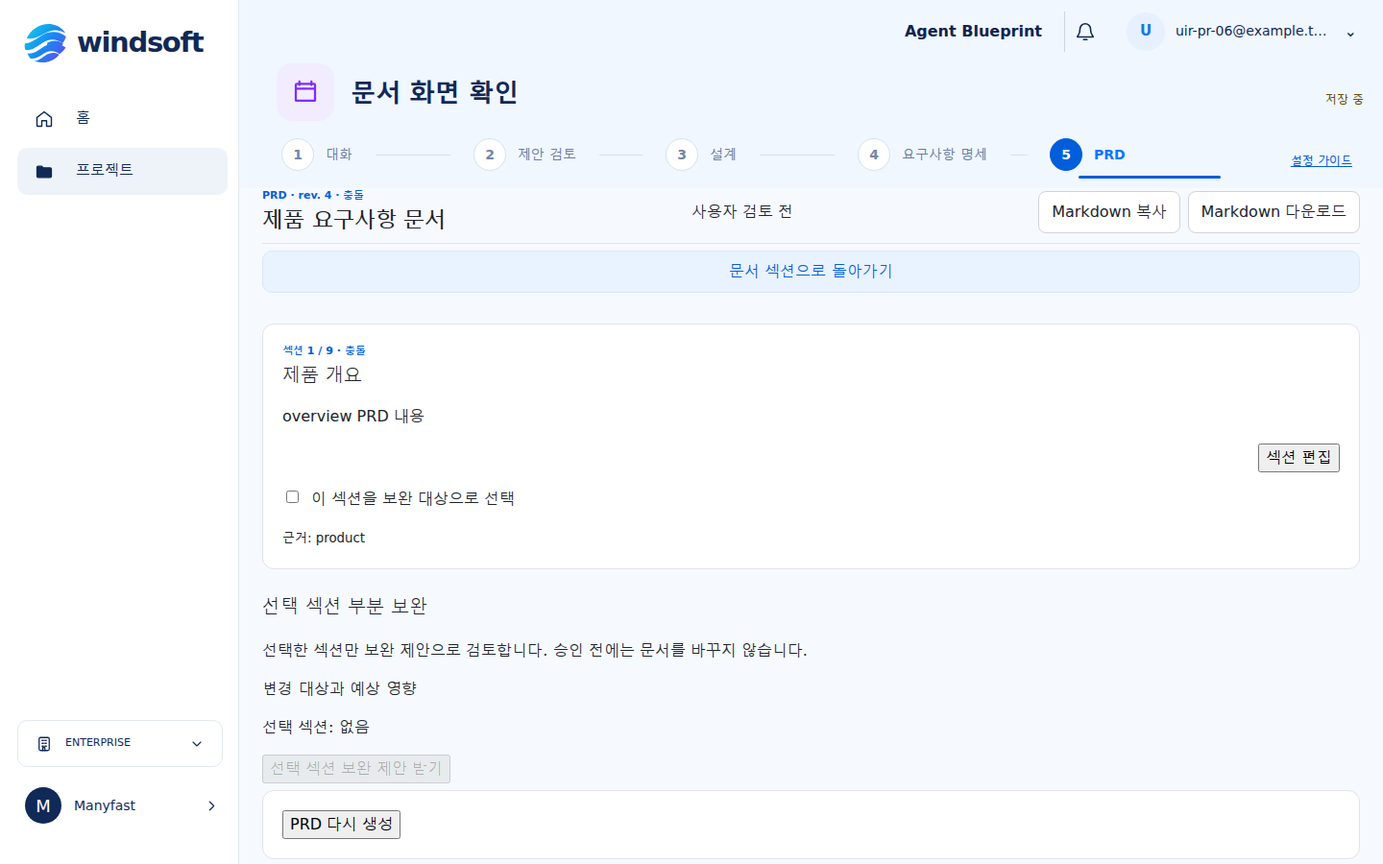
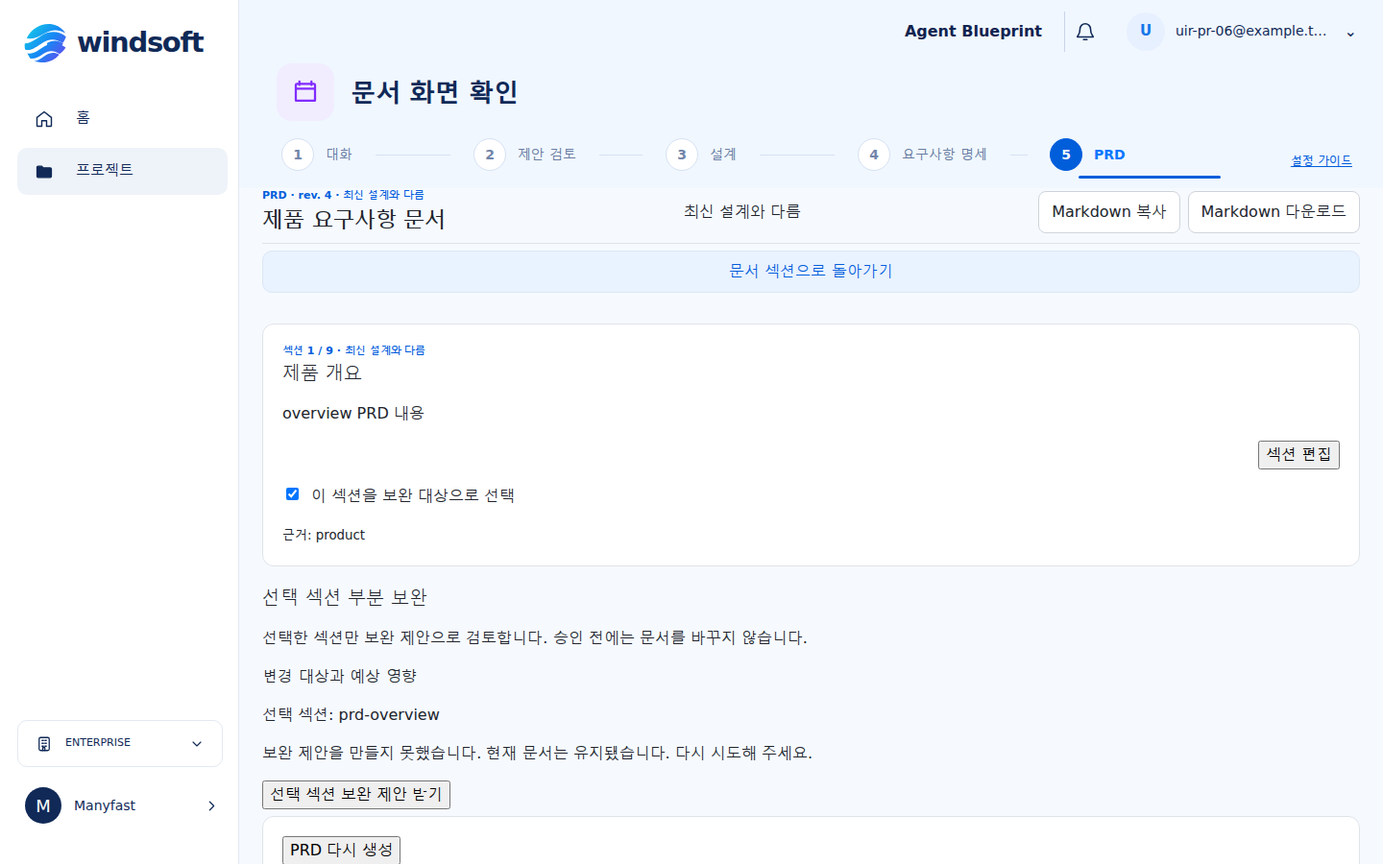
Block conflicted document patch targets

diff --git a/src/components/blueprint/RequirementsDocument.tsx b/src/components/blueprint/RequirementsDocument.tsx
@@ -44,6 +44,9 @@ export function RequirementsDocument({ aggregate, document, sections, generating
   const headerStatus = !document ? '초안' : hasConflict ? '충돌 해결 필요' : isStale ? '최신 설계와 다름' : document.status==='ready' ? '사용자 검토 완료' : document.status==='review_required' ? '사용자 검토 전' : document.status;
   const selected = currentSections.find((section)=>section.key===selectedKey);
   const requirements = (document?.requirements ?? []).filter((item)=>selected?.sourceItemIds.some((id)=>item.sourceItemIds.includes(id)));
+  const canPatchSelectedSection = Boolean(selected && selected.syncStatus !== 'conflict');
+  const patchSectionIds = canPatchSelectedSection && sectionTargetSelected && selected ? [selected.id] : [];
+  const patchRequirementIds = canPatchSelectedSection ? selectedRequirementIds.filter((id)=>requirements.some((item)=>item.id===id)) : [];
   const issueCount = document?.reviewIssues?.length ?? 0;
   const wasOpen = useRef(false);
   useEffect(()=>{ if (selected) selectedHeadingRef.current?.focus(); },[selected?.id]);
@@ -75,7 +78,7 @@ export function RequirementsDocument({ aggregate, document, sections, generating
     </header>
     {generating ? <div className="requirements-generation-status" role="status" aria-live="polite"><strong>Requirements를 만들고 있습니다</strong><ol><li>설계 계획 검증</li><li>요구사항 작성</li><li>품질 검토</li></ol><p>현재 설계와 기존 문서는 생성이 끝날 때까지 유지됩니다.</p></div> : null}
     {error ? <div className="requirements-generation-error" role="alert"><p>{error}</p><button type="button" onClick={onGenerate}>같은 요청 다시 시도</button></div> : null}
-    {!document && !generating ? <div className="requirements-empty-state"><h3>확정된 설계에서 Requirements를 만들 수 있습니다</h3><p>생성된 문서는 자동으로 완료 처리되지 않으며, 근거와 수용 기준을 직접 검토할 수 있습니다.</p><button type="button" className="design-requirements-action is-primary" onClick={onGenerate}>Requirements 생성</button></div> : null}
+    {!document && !generating ? <div className="requirements-empty-state"><h2>확정된 설계에서 Requirements를 만들 수 있습니다</h2><p>생성된 문서는 자동으로 완료 처리되지 않으며, 근거와 수용 기준을 직접 검토할 수 있습니다.</p><button type="button" className="design-requirements-action is-primary" onClick={onGenerate}>Requirements 생성</button></div> : null}
     {document ? <>
       <div className="requirements-document-layout">
         <aside className={`requirements-contents ${contentsOpen ? 'is-open' : ''}`} aria-label="문서 목차">
@@ -85,21 +88,21 @@ export function RequirementsDocument({ aggregate, document, sections, generating
         {contentsOpen ? <button className="requirements-contents-backdrop" aria-label="목차 닫기" onClick={()=>setContentsOpen(false)} /> : null}
         <div className="requirements-content-main">
           <button ref={triggerRef} type="button" className="requirements-contents-trigger" aria-expanded={contentsOpen} onClick={()=>setContentsOpen(true)}>목차 열기</button>
-          {selected ? <article aria-labelledby="requirements-section-title"><button className="document-detail-back" type="button" onClick={()=>{setFocusOverview(true);setSelectedKey('');}}>문서 섹션으로 돌아가기</button><p className="workspace-eyebrow">섹션 {selected.order+1} / {currentSections.length}</p><h3 id="requirements-section-title" ref={selectedHeadingRef} tabIndex={-1}>{selected.title}</h3>{selected.markdown ? <p className="requirements-section-copy">{selected.markdown}</p> : null}{document?<DocumentSectionEditor aggregate={aggregate} document={document} section={selected} onSave={onDirectEdit}/>:null}
-            <label><input type="checkbox" checked={sectionTargetSelected} onChange={(event)=>setSectionTargetSelected(event.target.checked)} /> 이 섹션을 보완 대상으로 선택</label>
-            {requirements.map((requirement:Requirement)=><section className="requirements-item" key={requirement.id}><header><strong>{requirement.id}</strong><span>{requirement.priority}</span></header><h4>{requirement.title}</h4><p>{requirement.description}</p><p className="requirements-item-meta">근거: {requirement.sourceItemIds.join(', ') || '연결된 설계 없음'}</p><label><input type="checkbox" checked={selectedRequirementIds.includes(requirement.id)} onChange={(event)=>setSelectedRequirementIds((ids)=>event.target.checked?[...ids,requirement.id]:ids.filter((id)=>id!==requirement.id))} /> 이 요구사항을 보완 대상으로 선택</label>{requirement.acceptanceCriteria.length ? <div><strong>수용 기준</strong><ul>{requirement.acceptanceCriteria.map((criterion,index)=><li key={`${requirement.id}-${index}`}>{criterion.text} <span>(근거: {criterion.sourceItemIds.join(', ')})</span></li>)}</ul></div> : null}</section>)}
+          {selected ? <article aria-labelledby="requirements-section-title"><button className="document-detail-back" type="button" onClick={()=>{setFocusOverview(true);setSelectedKey('');}}>문서 섹션으로 돌아가기</button><p className="workspace-eyebrow">섹션 {selected.order+1} / {currentSections.length}</p><h2 id="requirements-section-title" ref={selectedHeadingRef} tabIndex={-1}>{selected.title}</h2>{selected.markdown ? <p className="requirements-section-copy">{selected.markdown}</p> : null}{document?<DocumentSectionEditor aggregate={aggregate} document={document} section={selected} onSave={onDirectEdit}/>:null}
+            {selected.syncStatus==='conflict' ? <p role="note">충돌을 해결한 뒤 최신 섹션에서 보완 대상을 선택할 수 있습니다.</p> : <label><input type="checkbox" checked={sectionTargetSelected} onChange={(event)=>setSectionTargetSelected(event.target.checked)} /> 이 섹션을 보완 대상으로 선택</label>}
+            {requirements.map((requirement:Requirement)=><section className="requirements-item" key={requirement.id}><header><strong>{requirement.id}</strong><span>{requirement.priority}</span></header><h3>{requirement.title}</h3><p>{requirement.description}</p><p className="requirements-item-meta">근거: {requirement.sourceItemIds.join(', ') || '연결된 설계 없음'}</p>{selected.syncStatus==='conflict' ? <p role="note">충돌을 해결하기 전에는 이 요구사항을 보완 대상으로 선택할 수 없습니다.</p> : <label><input type="checkbox" checked={selectedRequirementIds.includes(requirement.id)} onChange={(event)=>setSelectedRequirementIds((ids)=>event.target.checked?[...ids,requirement.id]:ids.filter((id)=>id!==requirement.id))} /> 이 요구사항을 보완 대상으로 선택</label>}{requirement.acceptanceCriteria.length ? <div><strong>수용 기준</strong><ul>{requirement.acceptanceCriteria.map((criterion,index)=><li key={`${requirement.id}-${index}`}>{criterion.text} <span>(근거: {criterion.sourceItemIds.join(', ')})</span></li>)}</ul></div> : null}</section>)}
           </article> : document ? <DocumentSectionOverview sections={currentSections} focusHeading={focusOverview} onSelect={(section)=>{setFocusOverview(false);select(section.key);}} /> : null}
-          {onRequestPatch ? <section className="requirements-ready-review" aria-labelledby="requirements-patch-title"><h3 id="requirements-patch-title">선택 항목 부분 보완</h3><p>선택한 문서 내용과 연결 근거만 요청에 포함합니다. 승인 전에는 저장 문서가 바뀌지 않습니다.</p>{selected ? <p>대상: {[...(sectionTargetSelected?[selected.title]:[]),...requirements.filter((item)=>selectedRequirementIds.includes(item.id)).map((item)=>item.id)].join(', ')||'선택 없음'}</p> : null}{impactPreview?<ImpactSummary preview={impactPreview({sectionIds:sectionTargetSelected&&selected?[selected.id]:[],requirementIds:selectedRequirementIds})}/>:null}{patchError?<p role="alert">{patchError}</p>:null}<button type="button" disabled={patching||(!sectionTargetSelected&&!selectedRequirementIds.length)} onClick={()=>onRequestPatch?.({sectionIds:sectionTargetSelected&&selected?[selected.id]:[],requirementIds:selectedRequirementIds})}>{patching?'보완 제안 작성 중…':'선택 항목 보완 제안 받기'}</button></section>:null}
-          {selected?.key==='open_issues' && document.openIssues?.length ? <section aria-labelledby="requirements-open-issues"><h3 id="requirements-open-issues">미뤄 둔 결정</h3><ul>{document.openIssues.map((issue)=><li key={issue.id}><strong>{issue.title}</strong><p>{issue.description}</p><span>설계 항목: {issue.sourceItemIds.join(', ')}</span></li>)}</ul></section> : null}
-          {issueCount ? <section className="requirements-review-issues" aria-labelledby="requirements-review-issues-title"><h3 id="requirements-review-issues-title">검토할 문제 {issueCount}개</h3><ul>{document.reviewIssues?.map((issue,index)=><li key={`${issue.code}-${index}`}><strong>{issue.severity==='error'?'필수 확인':'확인 권장'} · {currentSections.find((section)=>section.key===issue.sectionKey)?.title ?? issue.sectionKey}</strong><p>{issue.description}</p>{issue.relatedItemIds.length ? <span>관련 설계: {issue.relatedItemIds.join(', ')}</span> : null}</li>)}</ul><p>설계 근거만으로 해결하기 어렵다면 관련 결정을 대화에서 다시 확인해 주세요.</p></section> : null}
+          {onRequestPatch ? <section className="requirements-ready-review" aria-labelledby="requirements-patch-title"><h2 id="requirements-patch-title">선택 항목 부분 보완</h2><p>선택한 문서 내용과 연결 근거만 요청에 포함합니다. 승인 전에는 저장 문서가 바뀌지 않습니다.</p>{selected ? <p>대상: {[...(patchSectionIds.length?[selected.title]:[]),...requirements.filter((item)=>patchRequirementIds.includes(item.id)).map((item)=>item.id)].join(', ')||'선택 없음'}</p> : null}{impactPreview?<ImpactSummary preview={impactPreview({sectionIds:patchSectionIds,requirementIds:patchRequirementIds})}/>:null}{patchError?<p role="alert">{patchError}</p>:null}{selected?.syncStatus==='conflict' ? <p role="note">충돌 해결 전에는 해당 섹션을 AI 보완 대상으로 보낼 수 없습니다.</p> : null}<button type="button" disabled={patching||(!patchSectionIds.length&&!patchRequirementIds.length)} onClick={()=>onRequestPatch?.({sectionIds:patchSectionIds,requirementIds:patchRequirementIds})}>{patching?'보완 제안 작성 중…':'선택 항목 보완 제안 받기'}</button></section>:null}
+          {selected?.key==='open_issues' && document.openIssues?.length ? <section aria-labelledby="requirements-open-issues"><h2 id="requirements-open-issues">미뤄 둔 결정</h2><ul>{document.openIssues.map((issue)=><li key={issue.id}><strong>{issue.title}</strong><p>{issue.description}</p><span>설계 항목: {issue.sourceItemIds.join(', ')}</span></li>)}</ul></section> : null}
+          {issueCount ? <section className="requirements-review-issues" aria-labelledby="requirements-review-issues-title"><h2 id="requirements-review-issues-title">검토할 문제 {issueCount}개</h2><ul>{document.reviewIssues?.map((issue,index)=><li key={`${issue.code}-${index}`}><strong>{issue.severity==='error'?'필수 확인':'확인 권장'} · {currentSections.find((section)=>section.key===issue.sectionKey)?.title ?? issue.sectionKey}</strong><p>{issue.description}</p>{issue.relatedItemIds.length ? <span>관련 설계: {issue.relatedItemIds.join(', ')}</span> : null}</li>)}</ul><p>설계 근거만으로 해결하기 어렵다면 관련 결정을 대화에서 다시 확인해 주세요.</p></section> : null}
         </div>
       </div>
       {document.status === 'review_required' ? <section className="requirements-ready-review" aria-labelledby="requirements-ready-title">
-        <h3 id="requirements-ready-title">Requirements 검토 완료</h3>
+        <h2 id="requirements-ready-title">Requirements 검토 완료</h2>
         {readySummary?.eligible ? <><p>P0 요구사항 {readySummary.p0RequirementCount}개 · 수용 기준 {readySummary.acceptanceCriteriaCount}개 · 오픈 이슈 {readySummary.openIssueCount}개 · 설계 revision {readySummary.designRevision}</p><button ref={readyTriggerRef} type="button" className="design-requirements-action is-primary" onClick={() => confirmRef.current?.showModal()}>검토 완료 확인</button></> : <><p>완료 처리 전에 아래 항목을 해결해야 합니다.</p><ul>{readySummary?.blockers.map((blocker) => <li key={blocker}>{blockerMessage(blocker)}</li>)}</ul><button type="button" disabled aria-describedby="requirements-ready-blocked">검토 완료 확인</button><span id="requirements-ready-blocked" className="workspace-sr-only">Requirements에 미해결 검토 조건이 있습니다.</span></>}
         {readyError ? <p role="alert">{readyError}</p> : null}
         <dialog ref={confirmRef} aria-labelledby="requirements-ready-confirm-title" onClose={() => readyTriggerRef.current?.focus()}>
-          <h3 id="requirements-ready-confirm-title">Requirements 검토를 완료할까요?</h3>
+          <h2 id="requirements-ready-confirm-title">Requirements 검토를 완료할까요?</h2>
           <p>P0 요구사항 {readySummary?.p0RequirementCount ?? 0}개, 수용 기준 {readySummary?.acceptanceCriteriaCount ?? 0}개, 오픈 이슈 {readySummary?.openIssueCount ?? 0}개를 설계 revision {readySummary?.designRevision ?? '—'} 기준으로 확정합니다. 이 동작은 PRD 생성을 허용하며 PRD 자체를 승인하지 않습니다.</p>
           <button type="button" onClick={() => confirmRef.current?.close()}>취소</button>
           <button type="button" className="design-requirements-action is-primary" onClick={() => { confirmRef.current?.close(); onMarkReady?.(); }}>Requirements 검토 완료</button>

diff --git a/tests/e2e/uir-pr-06-documents-supported-flows.spec.ts b/tests/e2e/uir-pr-06-documents-supported-flows.spec.ts
@@ -29,18 +29,23 @@ test('Requirements and PRD overview keeps section details and support actions re
     });
     const item = (id:string,type:string,extra:Record<string,unknown>={}) => ({id,projectId,type,title:id,description:`${id} 설명`,status:'confirmed',priority:'must',attributes:{},evidence:[],acceptanceCriteria:[],relatedItemIds:[],createdAt:now,updatedAt:now,...extra});
     const designItems = [item('product','product_definition'),item('problem','problem'),item('goal','goal'),item('user','user_role'),item('scenario','scenario'),item('feature','requirement',{acceptanceCriteria:[{id:'criterion',text:'완료 상태를 보여준다',status:'confirmed',evidence:[]}]}),item('scope','scope'),item('exclusion','out_of_scope'),item('metric','success_metric'),item('risk','risk')];
-    const requirementsSections = requirementKeys.map((key,order) => ({id:`req-${key}`,projectId,documentId:'requirements-doc',key,title:key==='functional'?'핵심 기능 요구사항':key,markdown:`${key} 요구사항 내용`,order,sourceItemIds:key==='functional'?['feature']:[],origin:'generated',syncStatus:'current',updatedAt:now}));
+    const requirementsSections = requirementKeys.map((key,order) => ({id:`req-${key}`,projectId,documentId:'requirements-doc',key,title:key==='functional'?'핵심 기능 요구사항':key,markdown:`${key} 요구사항 내용`,order,sourceItemIds:['functional','open_issues'].includes(key)?['feature']:[],origin:'generated',syncStatus:'current',updatedAt:now}));
     const prdSections = prdKeys.map((key,order) => ({id:`prd-${key}`,projectId,documentId:'prd-doc',key,title:key==='overview'?'제품 개요':key,markdown:`${key} PRD 내용`,order,sourceItemIds:key==='overview'?['product']:[],origin:'generated',syncStatus:key==='open_issues'?'conflict':key==='scope'?'stale':'current',updatedAt:now}));
     const aggregate = {
       project:{id:projectId,ownerKey,schemaVersion:1,title:'문서 화면 확인',status:'active',activeDocumentType:'requirements',activeThreadId:'thread',processState:'document_ready',designRevision:4,readiness:{state:'ready',areas:[],pendingProposalCount:0,conflictCount:0},createdAt:now,updatedAt:now,lastOpenedAt:now},
       thread:{id:'thread',projectId,title:'초기 대화',status:'active',createdAt:now,updatedAt:now},messages:[],answers:[],sources:[],designItems,proposals:[],
-      documents:[{id:'requirements-doc',projectId,type:'requirements',title:'Requirements',status:'ready',designRevision:4,readyDesignRevision:4,readyAt:now,readyConfirmationArtifact:'ready-attestation',version:2,sectionIds:requirementsSections.map(({id})=>id),requirements:[],openIssues:[],reviewIssues:[],createdAt:now,updatedAt:now},{id:'prd-doc',projectId,type:'prd',title:'PRD',status:'review_required',designRevision:4,version:1,sectionIds:prdSections.map(({id})=>id),createdAt:now,updatedAt:now}],
+      documents:[{id:'requirements-doc',projectId,type:'requirements',title:'Requirements',status:'ready',designRevision:4,readyDesignRevision:4,readyAt:now,readyConfirmationArtifact:'ready-attestation',version:2,sectionIds:requirementsSections.map(({id})=>id),requirements:[{id:'REQ-001',category:'functional',title:'사용자가 예약을 진행할 수 있다',description:'예약 절차를 완료할 수 있어야 합니다.',priority:'P0',sourceItemIds:['feature'],acceptanceCriteria:[{text:'완료 상태를 보여준다',sourceItemIds:['feature']}],openIssueIds:[]}],openIssues:[],reviewIssues:[],createdAt:now,updatedAt:now},{id:'prd-doc',projectId,type:'prd',title:'PRD',status:'review_required',designRevision:4,version:1,sectionIds:prdSections.map(({id})=>id),createdAt:now,updatedAt:now}],
       sections:[...requirementsSections,...prdSections],generationJobs:[],requestLedgerEntries:[],contextManifests:[],activityEntries:[],
     };
     const tx=db.transaction(['projects','activities'],'readwrite'); tx.objectStore('projects').put({id:projectId,schemaVersion:1,...aggregate});
     await new Promise<void>((resolve,reject)=>{tx.oncomplete=()=>resolve();tx.onerror=()=>reject(tx.error);}); db.close();
   },{databaseName:databaseNameForOwner(ownerKey),ownerKey,projectId,now,requirementKeys,prdKeys});
   const databaseName=databaseNameForOwner(ownerKey);
+  const patchRequests:any[]=[];
+  await page.route('**/api/blueprint/documents/patch',async(route)=>{
+    patchRequests.push(route.request().postDataJSON());
+    await route.fulfill({status:422,json:{error:'PATCH_TEST_CAPTURE'}});
+  });
 
   const viewport = page.viewportSize()!;
   await page.goto(`/blueprints/${projectId}/requirements`);
@@ -52,6 +57,9 @@ test('Requirements and PRD overview keeps section details and support actions re
     }).toBe(true);
   }
   await expect(page.getByRole('heading',{name:'문서 섹션'})).toBeVisible();
+  await expect(page.locator('.requirements-document h1')).toHaveCount(1);
+  await expect(page.getByRole('heading',{name:'문서 섹션',level:2})).toBeVisible();
+  await expect(page.getByRole('heading',{name:'핵심 기능 요구사항',level:3})).toBeVisible();
   await expect(page.getByRole('status').filter({hasText:'사용자 검토 완료'})).toBeVisible();
   await page.screenshot({path:test.info().outputPath(`requirements-overview-${viewport.width}x${viewport.height}.png`),scale:'css'});
   await setSectionSyncStatus(page,databaseName,projectId,'req-open_issues','conflict');
@@ -59,8 +67,12 @@ test('Requirements and PRD overview keeps section details and support actions re
   await expect(page.getByRole('status').filter({hasText:'충돌 해결 필요'})).toBeVisible();
   await page.screenshot({path:test.info().outputPath(`requirements-conflict-overview-${viewport.width}x${viewport.height}.png`),scale:'css'});
   await page.getByRole('button',{name:'open_issues 내용 보기'}).click();
+  await expect(page.getByRole('heading',{name:'open_issues',level:2})).toBeVisible();
   await expect(page.getByRole('note',{name:'섹션 충돌 안내'})).toContainText('직접 편집할 수 없습니다');
   await expect(page.getByRole('button',{name:'섹션 편집'})).toHaveCount(0);
+  await expect(page.getByLabel('이 섹션을 보완 대상으로 선택')).toHaveCount(0);
+  await expect(page.getByLabel('이 요구사항을 보완 대상으로 선택')).toHaveCount(0);
+  await expect(page.getByRole('button',{name:'선택 항목 보완 제안 받기'})).toBeDisabled();
   await page.screenshot({path:test.info().outputPath(`requirements-conflict-detail-${viewport.width}x${viewport.height}.png`),scale:'css'});
   await page.getByRole('button',{name:'문서 섹션으로 돌아가기'}).click();
   await setSectionSyncStatus(page,databaseName,projectId,'req-open_issues','current');
@@ -70,6 +82,14 @@ test('Requirements and PRD overview keeps section details and support actions re
   await page.getByRole('button',{name:'핵심 기능 요구사항 내용 보기'}).click();
   await expect(page.getByRole('heading',{name:'핵심 기능 요구사항'})).toBeVisible();
   await expect(page.getByRole('heading',{name:'핵심 기능 요구사항'})).toBeFocused();
+  await page.getByLabel('이 섹션을 보완 대상으로 선택').check();
+  await expect(page.getByLabel('이 요구사항을 보완 대상으로 선택')).toBeEnabled();
+  await page.getByLabel('이 요구사항을 보완 대상으로 선택').check();
+  await page.getByRole('button',{name:'선택 항목 보완 제안 받기'}).click();
+  await expect.poll(()=>patchRequests.length).toBe(1);
+  expect(patchRequests[0].documentId).toBe('requirements-doc');
+  expect(patchRequests[0].targetSectionIds).toEqual(['req-functional']);
+  expect(patchRequests[0].targetRequirementIds).toEqual(['REQ-001']);
   await page.getByRole('button',{name:'문서 섹션으로 돌아가기'}).click();
   await expect(page.getByRole('heading',{name:'문서 섹션'})).toBeFocused();
   await page.getByText('자료와 정합성 지원',{exact:true}).click();
@@ -84,13 +104,18 @@ test('Requirements and PRD overview keeps section details and support actions re
     }).toBe(true);
   }
   await expect(page.getByRole('button',{name:'제품 개요 내용 보기'})).toBeVisible();
+  await expect(page.locator('.requirements-document h1')).toHaveCount(1);
+  await expect(page.getByRole('heading',{name:'문서 섹션',level:2})).toBeVisible();
   await expect(page.getByRole('status').filter({hasText:'충돌 해결 필요'})).toBeVisible();
   await expect(page.getByText('4. 최신 설계와 다름')).toBeVisible();
   await expect(page.getByText('9. 충돌 검토')).toBeVisible();
   await page.screenshot({path:test.info().outputPath(`prd-overview-${viewport.width}x${viewport.height}.png`),scale:'css'});
   await page.getByRole('button',{name:'open_issues 내용 보기'}).click();
+  await expect(page.getByRole('heading',{name:'open_issues',level:2})).toBeVisible();
   await expect(page.getByRole('note',{name:'섹션 충돌 안내'})).toContainText('직접 편집할 수 없습니다');
   await expect(page.getByRole('button',{name:'섹션 편집'})).toHaveCount(0);
+  await expect(page.getByLabel('이 섹션을 보완 대상으로 선택')).toHaveCount(0);
+  await expect(page.getByRole('button',{name:'선택 섹션 보완 제안 받기'})).toBeDisabled();
   await page.screenshot({path:test.info().outputPath(`prd-conflict-detail-${viewport.width}x${viewport.height}.png`),scale:'css'});
   await page.getByRole('button',{name:'문서 섹션으로 돌아가기'}).click();
   await setSectionSyncStatus(page,databaseName,projectId,'prd-open_issues','current');
@@ -103,8 +128,15 @@ test('Requirements and PRD overview keeps section details and support actions re
   await expect(page.getByRole('note',{name:'섹션 충돌 안내'})).toHaveCount(0);
   await page.getByRole('button',{name:'문서 섹션으로 돌아가기'}).click();
   await page.getByRole('button',{name:'제품 개요 내용 보기'}).click();
+  await expect(page.getByRole('heading',{name:'제품 개요',level:2})).toBeVisible();
   await expect(page.getByRole('heading',{name:'제품 개요'})).toBeVisible();
   await expect(page.getByRole('heading',{name:'제품 개요'})).toBeFocused();
+  await page.getByLabel('이 섹션을 보완 대상으로 선택').check();
+  await page.getByRole('button',{name:'선택 섹션 보완 제안 받기'}).click();
+  await expect.poll(()=>patchRequests.length).toBe(2);
+  expect(patchRequests[1].documentId).toBe('prd-doc');
+  expect(patchRequests[1].targetSectionIds).toEqual(['prd-overview']);
+  expect(patchRequests[1].targetSectionIds).not.toContain('prd-open_issues');
   const overflow = await page.evaluate(() => document.documentElement.scrollWidth > document.documentElement.clientWidth);
   expect(overflow).toBe(false);
   await page.screenshot({path:test.info().outputPath(`prd-detail-${viewport.width}x${viewport.height}.png`),scale:'css'});

diff --git a/src/components/blueprint/PrdDocument.tsx b/src/components/blueprint/PrdDocument.tsx
@@ -24,6 +24,7 @@ export function PrdDocument({aggregate,document,sections,generating,error,patchi
   const allowed = validatePrdAllowed(aggregate).allowed;
   const ordered = [...sections].sort((a,b)=>a.order-b.order);
   const selected = ordered.find((section)=>section.id===selectedId);
+  const eligiblePatchSectionIds = selectedIds.filter((id)=>ordered.some((section)=>section.id===id&&section.syncStatus!=='conflict'));
   const stale = document && (document.designRevision!==aggregate.project.designRevision || ordered.some((section)=>section.syncStatus==='stale'));
   const conflict = ordered.some((section)=>section.syncStatus==='conflict');
   const status = !document ? '초안' : conflict ? '충돌' : stale ? '최신 설계와 다름' : document.status==='review_required' ? '검토 필요' : document.status;
@@ -35,18 +36,18 @@ export function PrdDocument({aggregate,document,sections,generating,error,patchi
       <div><p className="workspace-eyebrow">PRD · {document?`rev. ${document.designRevision} · ${status}`:'준비'}</p><h1 id="prd-title">제품 요구사항 문서</h1></div>
       {document&&allowed?<><span role="status">{headerStatus}</span><DocumentExportActions document={document} sections={ordered} projectTitle={aggregate.project.title}/></>:null}
     </header>
-    {!allowed?<div className="requirements-empty-state prd-locked-state"><p className="workspace-eyebrow">PRD 잠김</p><h3>PRD 생성 전 Requirements 검토가 필요합니다</h3><p>같은 설계 revision의 Requirements를 검토 완료한 뒤 PRD를 생성할 수 있습니다.</p><Link className="design-requirements-action is-primary" to={`/blueprints/${encodeURIComponent(aggregate.project.id)}/requirements`}>Requirements 검토로 이동</Link></div>:null}
+    {!allowed?<div className="requirements-empty-state prd-locked-state"><p className="workspace-eyebrow">PRD 잠김</p><h2>PRD 생성 전 Requirements 검토가 필요합니다</h2><p>같은 설계 revision의 Requirements를 검토 완료한 뒤 PRD를 생성할 수 있습니다.</p><Link className="design-requirements-action is-primary" to={`/blueprints/${encodeURIComponent(aggregate.project.id)}/requirements`}>Requirements 검토로 이동</Link></div>:null}
     {allowed&&generating?<p role="status" aria-live="polite">PRD를 작성하고 검토하고 있습니다. 기존 문서는 생성이 끝날 때까지 유지됩니다.</p>:null}
     {allowed&&error?<div role="alert"><p>{error}</p><button type="button" onClick={onGenerate}>다시 시도</button></div>:null}
     {allowed&&document ? selected ? <div className="requirements-content-main">
       <button className="document-detail-back" type="button" onClick={()=>{setFocusOverview(true);setSelectedId('');}}>문서 섹션으로 돌아가기</button>
-      <article aria-labelledby="prd-section-title"><p className="workspace-eyebrow">섹션 {selected.order+1} / {ordered.length} · {selected.syncStatus==='stale'?'최신 설계와 다름':selected.syncStatus==='conflict'?'충돌 검토':status}</p><h3 id="prd-section-title" ref={selectedHeadingRef} tabIndex={-1}>{selected.title}</h3><p className="requirements-section-copy">{selected.markdown}</p>
+      <article aria-labelledby="prd-section-title"><p className="workspace-eyebrow">섹션 {selected.order+1} / {ordered.length} · {selected.syncStatus==='stale'?'최신 설계와 다름':selected.syncStatus==='conflict'?'충돌 검토':status}</p><h2 id="prd-section-title" ref={selectedHeadingRef} tabIndex={-1}>{selected.title}</h2><p className="requirements-section-copy">{selected.markdown}</p>
         <DocumentSectionEditor aggregate={aggregate} document={document} section={selected} onSave={onDirectEdit}/>
-        <label className="document-patch-target"><input type="checkbox" checked={selectedIds.includes(selected.id)} onChange={(event)=>setSelectedIds((ids)=>event.target.checked?[...ids,selected.id]:ids.filter((id)=>id!==selected.id))}/> 이 섹션을 보완 대상으로 선택</label>
+        {selected.syncStatus==='conflict' ? <p role="note">충돌을 해결한 뒤 최신 문서에서 이 섹션을 AI 보완 대상으로 선택할 수 있습니다.</p> : <label className="document-patch-target"><input type="checkbox" checked={eligiblePatchSectionIds.includes(selected.id)} onChange={(event)=>setSelectedIds((ids)=>event.target.checked?[...ids,selected.id]:ids.filter((id)=>id!==selected.id))}/> 이 섹션을 보완 대상으로 선택</label>}
         <small>근거: {selected.sourceItemIds.join(', ')||'연결 없음'}</small>
       </article>
     </div> : <DocumentSectionOverview sections={ordered} focusHeading={focusOverview} onSelect={(section)=>{setFocusOverview(false);setSelectedId(section.id);}}/> : null}
-    {allowed&&document?<section className="requirements-ready-review" aria-labelledby="prd-patch-title"><h3 id="prd-patch-title">선택 섹션 부분 보완</h3><p>선택한 섹션만 보완 제안으로 검토합니다. 승인 전에는 문서를 바꾸지 않습니다.</p><div className="document-impact-preview" aria-label="변경 대상과 예상 영향"><strong>변경 대상과 예상 영향</strong><p>선택 섹션: {impactPreview({sectionIds:selectedIds,requirementIds:[]}).targetIds.join(', ')||'없음'}</p></div>{patchError?<p role="alert">{patchError}</p>:null}<button type="button" disabled={patching||!selectedIds.length} onClick={()=>onRequestPatch({sectionIds:selectedIds,requirementIds:[]})}>{patching?'보완 제안 작성 중…':'선택 섹션 보완 제안 받기'}</button></section>:null}
+    {allowed&&document?<section className="requirements-ready-review" aria-labelledby="prd-patch-title"><h2 id="prd-patch-title">선택 섹션 부분 보완</h2><p>선택한 섹션만 보완 제안으로 검토합니다. 승인 전에는 문서를 바꾸지 않습니다.</p><div className="document-impact-preview" aria-label="변경 대상과 예상 영향"><strong>변경 대상과 예상 영향</strong><p>선택 섹션: {impactPreview({sectionIds:eligiblePatchSectionIds,requirementIds:[]}).targetIds.join(', ')||'없음'}</p></div>{patchError?<p role="alert">{patchError}</p>:null}{selected?.syncStatus==='conflict'?<p role="note">충돌 해결 전에는 해당 섹션을 AI 보완 대상으로 보낼 수 없습니다.</p>:null}<button type="button" disabled={patching||!eligiblePatchSectionIds.length} onClick={()=>onRequestPatch({sectionIds:eligiblePatchSectionIds,requirementIds:[]})}>{patching?'보완 제안 작성 중…':'선택 섹션 보완 제안 받기'}</button></section>:null}
     {allowed?<div className="requirements-empty-state"><button type="button" className="design-requirements-action is-primary" disabled={generating} onClick={onGenerate}>{document?'PRD 다시 생성':'PRD 생성'}</button></div>:null}
   </section>;
 }

diff --git a/src/styles/blueprint-workspace.css b/src/styles/blueprint-workspace.css
@@ -94,7 +94,8 @@
 
 .requirements-document { display:grid; gap:.45rem; color:var(--workspace-ink,#20242b); }
 .requirements-document-header { display:flex; align-items:center; justify-content:space-between; gap:.75rem; border-bottom:1px solid var(--workspace-border,#dfe3e8); padding-bottom:.45rem; }
-.requirements-document-header h1,.requirements-content-main h3 { margin:.15rem 0; }
+.requirements-document-header h1,.requirements-content-main h2 { margin:.15rem 0; }
+.requirements-content-main h2,.prd-locked-state h2,.requirements-document>.requirements-empty-state h2,.requirements-document>.requirements-ready-review h2,.document-impact-dialog h2 { font-size:1.17em; line-height:1.3; }
 .requirements-document-header h1 { font-size:1.35rem; line-height:1.25; }
 .document-export-actions { display:flex; align-items:center; flex-wrap:wrap; gap:.5rem; }
 .document-export-actions button { min-height:2.5rem; padding:.55rem .8rem; border:1px solid var(--workspace-border,#cfd4dc); border-radius:8px; color:inherit; background:#fff; font:inherit; cursor:pointer; }
@@ -112,13 +113,13 @@
 .requirements-content-main { min-width:0; }
 .document-section-overview { display:grid; gap:0; min-width:0; }
 .document-section-overview>header { display:flex; min-height:1.2rem; align-items:center; justify-content:space-between; gap:var(--space-3); }
-.document-section-overview>header h3 { margin:0; color:var(--color-text-strong); font-size:.95rem; line-height:1.3; }
+.document-section-overview>header h2 { margin:0; color:var(--color-text-strong); font-size:.95rem; line-height:1.3; }
 .document-section-overview>header>p { margin:0; color:var(--color-text-muted); font-size:.85rem; }
 .document-section-overview-list { display:grid; gap:var(--space-3); }
 .document-section-overview-card { display:grid; grid-template-columns:minmax(0,1fr) auto; align-items:center; gap:var(--space-4); padding:.8rem 1rem; border:1px solid var(--color-border); border-radius:var(--radius-md); background:var(--color-surface); }
 .document-section-overview-card>div { min-width:0; }
 .document-section-overview-card .workspace-eyebrow { margin-bottom:.35rem; font-size:.75rem; }
-.document-section-overview-card h4 { margin:0 0 .35rem; color:var(--color-text-strong); font-size:.95rem; }
+.document-section-overview-card h3 { margin:0 0 .35rem; color:var(--color-text-strong); font-size:.95rem; }
 .document-section-overview-summary { display:-webkit-box; margin:0; overflow:hidden; color:var(--color-text-muted); font-size:.85rem; line-height:1.5; overflow-wrap:anywhere; -webkit-box-orient:vertical; -webkit-line-clamp:2; }
 .document-section-overview-card button,.document-detail-back { min-height:2.5rem; padding:.55rem .8rem; border:1px solid var(--color-border); border-radius:var(--radius-sm); background:var(--color-primary-soft); color:var(--color-primary); font:inherit; font-weight:650; cursor:pointer; }
 .document-section-overview-card button:focus-visible,.document-detail-back:focus-visible { outline:3px solid var(--color-primary); outline-offset:2px; }
@@ -127,7 +128,7 @@
 .document-detail-back { margin-bottom:var(--space-3); }
 .prd-document .requirements-content-main { display:grid; gap:var(--space-3); }
 .prd-locked-state { display:grid; gap:var(--space-2); }
-.prd-locked-state h3,.prd-locked-state p { margin:0; }
+.prd-locked-state h2,.prd-locked-state p { margin:0; }
 .document-patch-target { display:flex; align-items:flex-start; gap:.6rem; margin-block:var(--space-3); }
 .document-support-flows { display:grid; gap:var(--space-3); margin-block:var(--space-4); padding:var(--space-3); border:1px solid var(--color-border); border-radius:var(--radius-md); background:var(--color-surface-muted); }
 .document-support-flows>summary { width:max-content; max-width:100%; min-height:2.75rem; padding:.65rem .9rem; border:1px solid var(--color-border); border-radius:var(--radius-sm); background:var(--color-surface); color:var(--color-text-strong); font-weight:650; cursor:pointer; }
@@ -135,7 +136,7 @@
 .requirements-content-main article { border:1px solid var(--workspace-border,#dfe3e8); border-radius:12px; background:var(--workspace-panel,#fff); padding:1.25rem; }
 .requirements-item,.requirements-review-issues { margin-top:1rem; padding:1rem; border:1px solid var(--workspace-border,#dfe3e8); border-radius:10px; background:#fff; }
 .requirements-item header { display:flex; justify-content:space-between; }
-.requirements-item h4 { margin:.5rem 0; }
+.requirements-item h3 { margin:.5rem 0; }
 .requirements-item-meta { color:#5c6572; font-size:.875rem; }
 .requirements-item li,.requirements-review-issues li { margin:.45rem 0; }
 .requirements-item li span,.requirements-review-issues span { color:#5c6572; font-size:.85rem; }
@@ -149,7 +150,7 @@
 .document-direct-editor-actions { display:flex; flex-wrap:wrap; justify-content:flex-end; gap:.5rem; }
 .document-impact-dialog { width:min(680px,calc(100vw - 2rem)); max-height:min(85dvh,760px); overflow:auto; padding:1.25rem; border:1px solid var(--workspace-border,#dfe3e8); border-radius:14px; color:var(--workspace-ink,#20242b); background:#fff; box-shadow:0 22px 72px #10182845; }
 .document-impact-dialog::backdrop { background:#10182875; }
-.document-impact-dialog h3 { margin-top:0; }
+.document-impact-dialog h2,.document-impact-dialog h3 { margin-top:0; }
 .document-edit-diff { display:grid; grid-template-columns:1fr 1fr; gap:.75rem; }
 .document-edit-diff>div,.document-edit-conflict>div { min-width:0; padding:.8rem; border:1px solid var(--workspace-border,#dfe3e8); border-radius:9px; background:#f7f8fa; white-space:pre-wrap; overflow-wrap:anywhere; }
 .document-edit-impact-choice { display:flex; align-items:flex-start; gap:.65rem; margin:.5rem 0; padding:.7rem; border:1px solid var(--workspace-border,#dfe3e8); border-radius:9px; cursor:pointer; }

diff --git a/src/components/blueprint/DocumentSectionOverview.tsx b/src/components/blueprint/DocumentSectionOverview.tsx
@@ -11,9 +11,9 @@ export function DocumentSectionOverview({sections,onSelect,focusHeading=false}:{
   const headingRef = useRef<HTMLHeadingElement>(null);
   useEffect(()=>{ if (focusHeading) headingRef.current?.focus(); },[focusHeading]);
   return <section className="document-section-overview" aria-labelledby="document-section-overview-title">
-    <header><h3 id="document-section-overview-title" ref={headingRef} tabIndex={-1}>문서 섹션</h3><p>{sections.length}개 항목</p></header>
+    <header><h2 id="document-section-overview-title" ref={headingRef} tabIndex={-1}>문서 섹션</h2><p>{sections.length}개 항목</p></header>
     {sections.length ? <div className="document-section-overview-list">{sections.map((section)=><article className="document-section-overview-card" key={section.id}>
-      <div><p className="workspace-eyebrow">{section.order+1}. {sectionStatus(section)}</p><h4>{section.title}</h4><p className="document-section-overview-summary">{section.markdown.trim()||'내용을 검토하고 필요한 사항을 보완하세요.'}</p></div>
+      <div><p className="workspace-eyebrow">{section.order+1}. {sectionStatus(section)}</p><h3>{section.title}</h3><p className="document-section-overview-summary">{section.markdown.trim()||'내용을 검토하고 필요한 사항을 보완하세요.'}</p></div>
       <button type="button" onClick={()=>onSelect(section)} aria-label={`${section.title} 내용 보기`}>내용 보기 <span aria-hidden="true">›</span></button>
     </article>)}</div> : <p className="document-section-overview-empty">문서 섹션이 없습니다. 문서를 다시 생성해 주세요.</p>}
   </section>;

diff --git a/docs/tasks/UIR-PR-06/test-results.md b/docs/tasks/UIR-PR-06/test-results.md
@@ -1,6 +1,6 @@
 # UIR-PR-06 validation results
 
-Validation was performed in `/home/donghyunlee/.codex/worktrees/uir-pr-06-documents-supported-flows`, branch `uir/pr-06-documents-supported-flows`, against the UIR-PR-06 review-fix working tree based on `3fee254e6a325e61f7b3d7dd6bb84892d2dc6e30`. The final browser screenshots are in `.pr-artifacts/UIR-PR-06/evidence/` and the review attachments are in [`docs/delivery/evidence/UIR-PR-06/`](../../delivery/evidence/UIR-PR-06/README.md).
+Validation was performed in `/home/donghyunlee/.codex/worktrees/uir-pr-06-documents-supported-flows`, branch `uir/pr-06-documents-supported-flows`, on a working tree based on `c6fbaf1d26aecf5e4ceef176918c0d614e35c957` with subsequent review fixes. No commit or push was made for these fixes at validation time. The final browser screenshots are in `.pr-artifacts/UIR-PR-06/evidence/` and the review attachments are in [`docs/delivery/evidence/UIR-PR-06/`](../../delivery/evidence/UIR-PR-06/README.md).
 
 ## Browser suite
 
@@ -12,7 +12,11 @@ Command:
 npx playwright test --config=.pr-artifacts/UIR-PR-06/playwright.config.ts tests/e2e/uir-pr-06-documents-supported-flows.spec.ts tests/e2e/doc-pr-01-requirements-generation.spec.ts tests/e2e/doc-pr-02-prd-readiness.spec.ts tests/e2e/doc-pr-03-document-refinement.spec.ts tests/e2e/doc-pr-04-direct-edit-impact.spec.ts tests/e2e/exp-pr-01-document-export.spec.ts tests/e2e/gde-pr-01-setup-guide.spec.ts tests/e2e/src-pr-01-sources.spec.ts tests/e2e/src-pr-02-evidence-linking.spec.ts tests/e2e/src-pr-03-source-result-download.spec.ts --workers=1
 ```
 
-Final result after the review fixes: **30 passed (43.1s)** across `desktop-chromium` (1440×900) and `mobile-chromium` (390×844). Coverage includes overview/detail navigation and focus return, single-H1 hierarchy, active Requirements/PRD stage links fully within the mobile navigation viewport, ready/stale/conflict header status, conflict-section edit lock and guidance in both document types, Requirements gate/ready, PRD locked/loading/draft, direct editing and impact dialog, export, source upload/removal/download, setup guide, and source support reachability. The isolated config runs `npm run build` before launching the fresh 4174 preview.
+Final full focused result after the exact-HEAD review fixes: **30 passed (1.1m), 0 skipped, 0 failed** across `desktop-chromium` (1440×900) and `mobile-chromium` (390×844). Coverage includes Requirements and PRD conflict sections with no AI patch-target checkbox or submission, successful non-conflict patch target payloads for both documents, document heading levels (one document H1; section/overview H2; nested card H3), overview/detail navigation and focus return, active Requirements/PRD stage links fully within the mobile navigation viewport, ready/stale/conflict header status, conflict-section edit lock and guidance, Requirements gate/ready, PRD locked/loading/draft, direct editing and impact dialog, export, source upload/removal/download, setup guide, and source support reachability. The isolated config runs `npm run build` before launching the fresh 4174 preview.
+
+The regression assertions were added first and failed against the prior implementation at the document overview's H3 immediately below the document H1. After implementation, the affected UIR-PR-06 spec passed **2/2** desktop/mobile; the full focused suite then passed **30/30** twice, including a final run after the heading-scale CSS adjustment.
+
+Final nested-target review correction: the synthetic Requirements fixture links a requirement into both a current section and a conflicted section. The new assertion first failed on the conflicted nested requirement checkbox being present; the fix hides that checkbox and shows conflict guidance. The focused UIR spec passed **2/2** desktop/mobile, and the final full focused suite passed **30/30** after this correction. The suite confirms the same requirement checkbox remains usable for the current section and the request includes `REQ-001`. Final conflict-detail screenshots were refreshed in `.pr-artifacts/UIR-PR-06/evidence/` and copied into the PR evidence directory.
 
 Affected document/editor command:
 
@@ -33,13 +37,13 @@ Result: **8 passed, 2 skipped (20.3s)**. The two skips are the existing desktop-
 ## Unit, build, docs, and diff checks
 
 - `npm run test:unit`: 347 total, 346 passed, 1 failed. The failing existing unit test is `tests/unit/src-pr-01-source-upload-command.test.js` — “removes a source transactionally without replacing sibling records”; it throws `Cannot read properties of undefined (reading 'map')` in unchanged `src/features/sources/source-upload-command.js:95`. The same targeted test failed on the unchanged base worktree (5 passed, 1 failed) with the same stack.
-- `npm run build`: passed after the final UI change. Vite emitted the existing advisory that some chunks exceed 500 kB.
-- `PUPPETEER_EXECUTABLE_PATH=/home/donghyunlee/.cache/ms-playwright/chromium_headless_shell-1248/chrome-headless-shell-linux64/chrome-headless-shell npm run docs:check:mermaid`: passed, 43 diagrams. The unqualified first attempt could not find Puppeteer’s configured Chrome 153; the cached Playwright headless shell path allowed the repository check to complete.
+- `npm run build`: passed on the final UI/CSS state. Vite emitted the existing advisory that some chunks exceed 500 kB.
+- `PUPPETEER_EXECUTABLE_PATH=/home/donghyunlee/.cache/ms-playwright/chromium_headless_shell-1248/chrome-headless-shell-linux64/chrome-headless-shell npm run docs:check:mermaid`: passed, 43 diagrams.
 - `git diff --check`: passed after the final implementation and evidence report were written.
 
 ## Browser tooling
 
-No Agent Browser tool was listed in the enabled tool catalog search, and `command -v agent-browser` returned no path. Playwright Chromium completed the desktop and mobile flows above. Screenshots are local rendering evidence using synthetic data, not deployed or live-service proof.
+No Agent Browser tool appeared in the enabled tool catalog search, and `command -v agent-browser` returned no executable. Playwright Chromium completed the desktop and mobile flows above. Screenshots are local rendering evidence using synthetic data, not deployed or live-service proof.
 
 ## Visual comparison
 
@@ -47,4 +51,4 @@ Primary Requirements and PRD references and measured anchor deltas are recorded 
 
 On 390×844, the stage navigation now centers the active `aria-current="step"` item when the active stage changes. Requirements and PRD labels are fully visible in their navigation viewport; the nav remains horizontally scrollable, page-level horizontal overflow remains absent, and focus is not moved by the scroll adjustment. Mobile screenshots in the evidence directory were refreshed from the final isolated-port browser run.
 
-Conflict editor and header state screenshots were also recaptured: Requirements ready/current, Requirements conflict, PRD conflict, and PRD stale. Conflict sections show a resolution notice and no direct edit control. Header badges report `사용자 검토 완료` only for ready/current Requirements and explicitly report `충돌 해결 필요` or `최신 설계와 다름` for those states.
+Conflict editor and header state screenshots were recaptured: Requirements ready/current, Requirements conflict, PRD conflict, and PRD stale. Conflict sections show a resolution notice and no direct-edit/save or section- or requirement-level AI patch-target control. Patch preview and submit filter IDs through the current non-conflict sections, including stale selected IDs. The heading changes retain the previous visual font scale; the primary overview anchor remains y≈282/900 (31.3%) versus y≈263/992 (26.5%), +4.8 percentage points. Header badges report `사용자 검토 완료` only for ready/current Requirements and explicitly report `충돌 해결 필요` or `최신 설계와 다름` for those states.

diff --git a/docs/delivery/evidence/UIR-PR-06/README.md b/docs/delivery/evidence/UIR-PR-06/README.md
@@ -45,4 +45,6 @@ Approximate measurements use the source and render screenshots without distortin
 
 The rendered card tops are about 43px below the proportional source coordinate at a 900px viewport height. The shared project title/save row and numbered stage navigation remain visible; the duplicate document work-panel title was removed. The active Requirements and PRD stage labels are automatically revealed in the horizontally scrollable navigation on mobile. There is no unexplained material anchor delta.
 
+Requirements and PRD use one document H1, H2 for overview and selected document sections, and H3 for nested section cards and requirement items. The semantic heading correction retains the prior rendered font scale. Sections marked conflict provide resolution guidance and do not expose direct edit or AI patch-target controls.
+
 The local Vite render used a mocked session and synthetic IndexedDB data. It is presentation evidence only, not proof of live authentication or deployed behavior.
